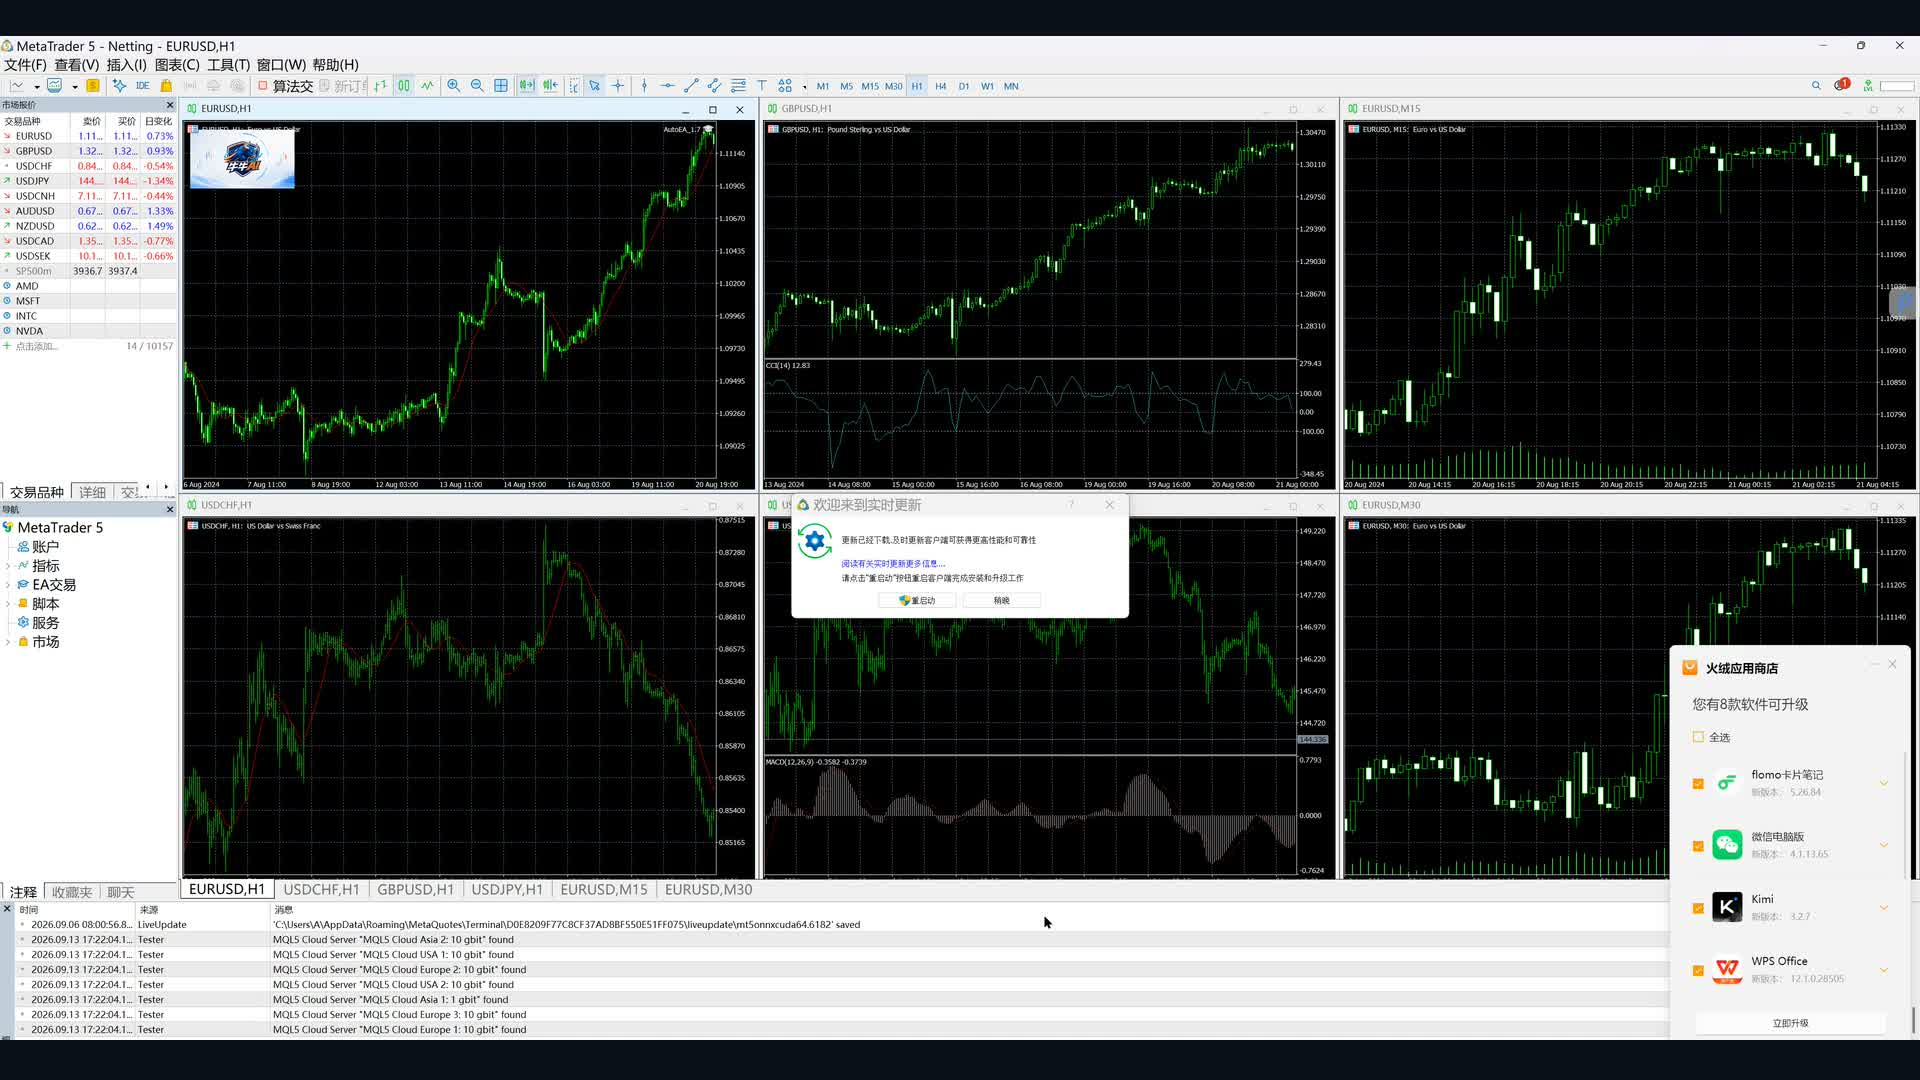
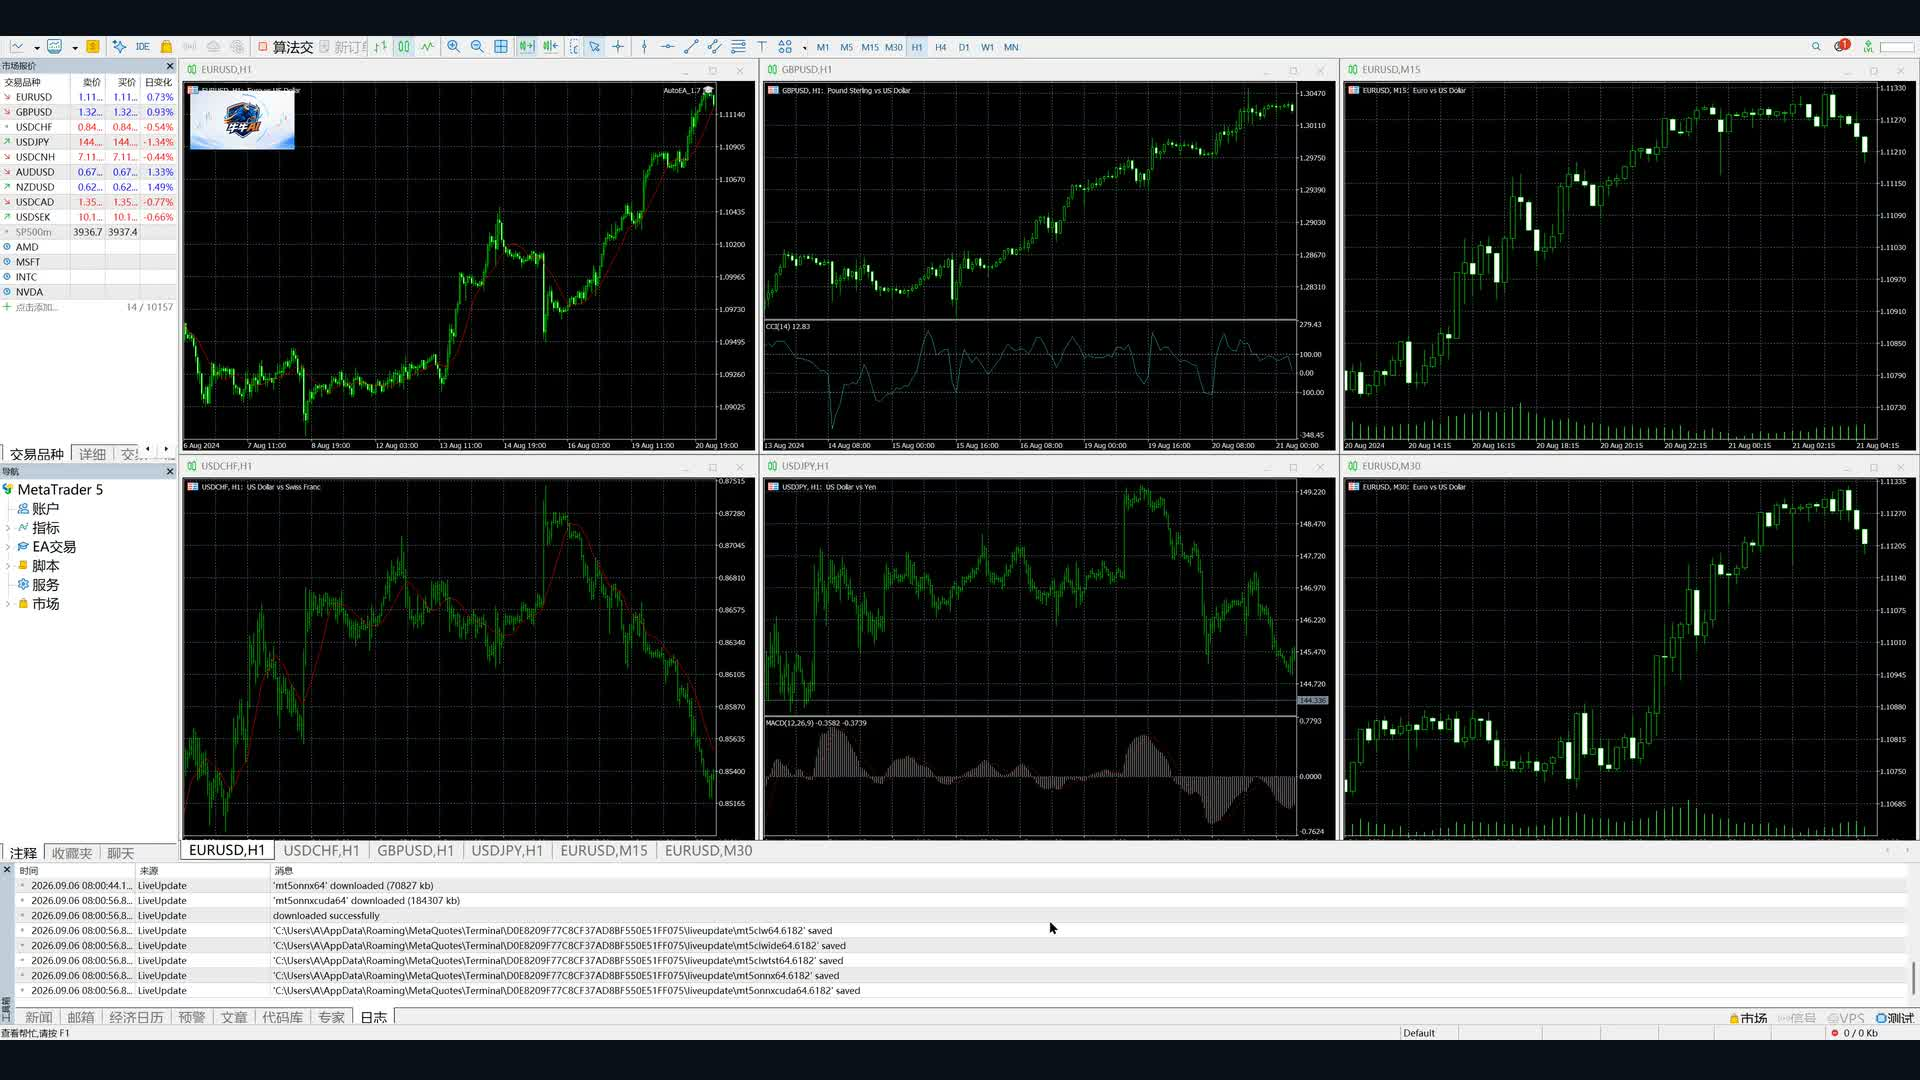
fix(home): swap MT5 clip for a clean window-only capture
The previous clip was captured in full-desktop mode and picked up unrelated
windows - a Huorong security pop-up ('火绒应用商店' / '欢迎来到实时更新') and
other apps. Switches to the window-locked capture which contains only MT5.

Changed region(s): [[0.0, 0.0306, 1.0, 0.9778], [0.875, 0.825, 0.9375, 0.8556]]

diff --git a/src/pages/Home.tsx b/src/pages/Home.tsx
@@ -386,7 +386,7 @@ export default function Home() {
         />
         <div className="reveal mt-10 overflow-hidden rounded-xl border border-[#e5e7eb] bg-white shadow-[0_24px_60px_-40px_rgba(11,23,36,0.35)]">
           <video
-            src="/mt5/mt5-real-switch.mp4"
+            src="/mt5/mt5-real-desktop.mp4"
             poster="/mt5/mt5-real-poster.jpg"
             autoPlay
             muted
